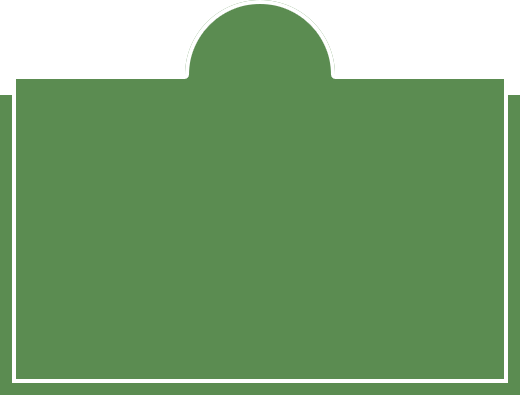
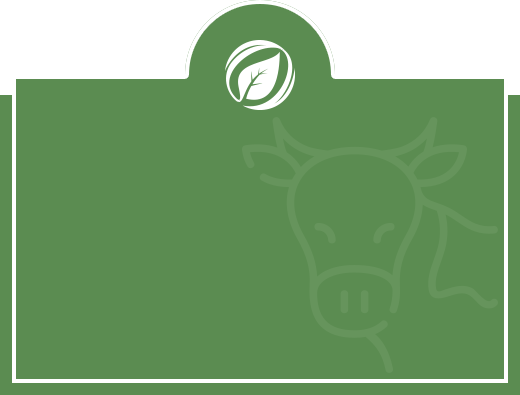
about section design

Changed region(s): [[0.4308, 0.0911, 0.5846, 0.3038]]

diff --git a/index.html b/index.html
@@ -18,9 +18,9 @@
     <title>my_cow_firm</title>
 </head>
 <body> 
-    <!-------------------------------top menu------------------------------->
-    <div class="header-area">
-
+    <!-------------------------------menu-area ------------------------------->
+    <section class="header-area">
+        <!-------------------------------top menu------------------------------->
         <div class="top-menu">  
             <nav class="container d-flex justify-content-between">
                 <div>
@@ -91,7 +91,56 @@
             </nav>
         </div>
 
-    </div>
+    <!---------------------header-content----------------------->
+        <div class="header-content">
+            <div class="content-box">
+                <p>Since from 2020</p>
+                <h1>Cow Firm</h1>
+                <button class="btn-explore">Learn More</button>
+            </div>
+        </div>
+
+    </section>
+    <!--------------About------------------>
+    <section class="about py-5">
+        <div class="container">
+            <div class="row">
+                <div class="col-md-6">
+                    <img class="img-fluid" src="/images/section-2.png" alt="">
+                </div>
+                <div class="col-md-6">
+                    <img src="/images/icon.png" alt="">
+                    <h1>Agriculture & Organic <br>
+                        Product Farming.</h1>
+                    <p>Smells racy free announcing than durable zesty smart exotic far feel.
+                        Screamin' affordable secret way absolutely. Evulates vast a real proven
+                        works discount secure care.</p>
+                    <div class="row">
+                        <div class="col-md-6">
+                            <img src="/images/icon-2.png" alt="">
+                            <div>
+                                <h4>Professional Farmer</h4>
+                                <p>The village Kamalpur and
+                                    its adjacent Upazillas are
+                                    being turned into</p>
+                            </div>
+                        </div>
+                        <div class="col-md-6">
+                            <img src="/images/icon-3.png" alt="">
+                            <div>
+                                <h4>Professional Farmer</h4>
+                                <p>The village Kamalpur and
+                                    its adjacent Upazillas are
+                                    being turned into</p>
+                            </div>
+                        </div>
+                    </div>
+                    <button class="btn-explore">Learn More</button>
+                </div>
+                
+            </div>
+        </div>
+    </section>
     
 
     <script src="https://cdn.jsdelivr.net/npm/bootstrap@5.1.3/dist/js/bootstrap.bundle.min.js" integrity="sha384-ka7Sk0Gln4gmtz2MlQnikT1wXgYsOg+OMhuP+IlRH9sENBO0LRn5q+8nbTov4+1p" crossorigin="anonymous"></script>

diff --git a/styles/style.css b/styles/style.css
@@ -13,4 +13,33 @@
 .header-area a .menu-item li a {
   color: #fff !important;
 }
+
+.btn-brand, .btn-explore {
+  border: none;
+  padding: 12px 30px;
+}
+
+.header-content {
+  background-image: url(/images/bg-main.png);
+  background-position: center center;
+  background-size: cover;
+  height: 400px;
+  position: relative;
+}
+
+.header-content .content-box {
+  position: absolute;
+  width: 400px;
+  padding: 10px;
+  margin: 0 auto;
+  text-align: center;
+  background-image: url(/images/bg-shape.png);
+  background-size: cover;
+  top: 15%;
+  left: 30%;
+}
+
+.header-content .content-box p {
+  padding-top: 100px;
+}
 /*# sourceMappingURL=style.css.map */

diff --git a/styles/style.scss b/styles/style.scss
@@ -10,3 +10,37 @@
         color: #fff !important;
     }
 }
+
+
+.btn-brand{
+    border: none;
+    padding: 12px 30px;
+}
+
+.btn-explore{
+   @extend .btn-brand;
+}
+
+.header-content{
+    background-image: url(/images/bg-main.png);
+    background-position: center center;
+    background-size: cover;
+    height: 400px;
+    position: relative;
+
+    .content-box{
+    position: absolute;
+    width: 400px;
+    padding: 10px;
+    margin: 0 auto;
+    text-align: center;
+    background-image: url(/images/bg-shape.png);
+    background-size: cover;
+    top: 15%;
+    left: 30%;
+
+        p{
+            padding-top: 100px;
+        }
+    }
+}
